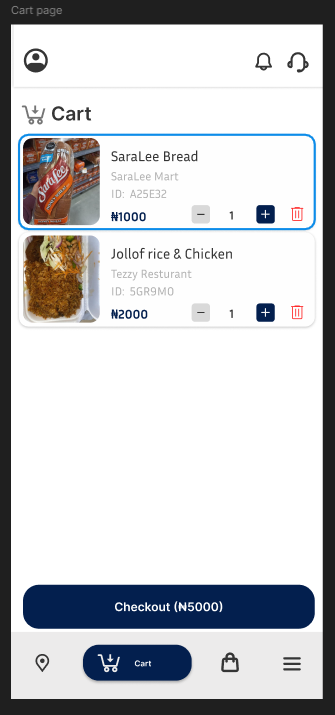
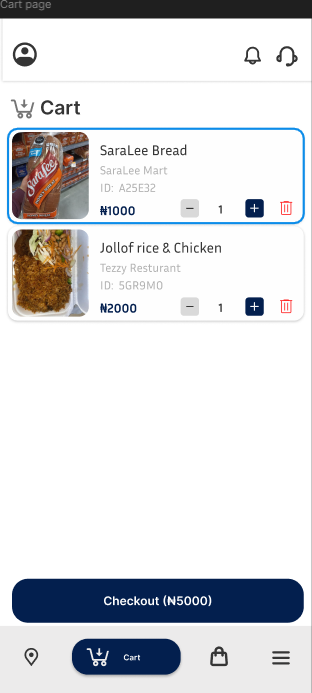
Enhance case study with staggered masonry grid and cropped UI screens

Changed region(s): [[0.0, 0.0, 1.0, 1.0], [0.5769, 0.4242, 0.6346, 0.4848], [0.6923, 0.4242, 0.7212, 0.4545]]

diff --git a/quiklyy.html b/quiklyy.html
@@ -174,13 +174,19 @@
     <section class="cs-section">
         <h2 class="cs-section-title" style="text-align: center;">High-Fidelity Figma Screens</h2>
         <p class="cs-text" style="max-width: 600px; margin: 0 auto 3rem; text-align: center;">A closer look at the core user interfaces, featuring the Merchant Dashboard, Item Details, Shopping, Cart, Recent Purchase, and Sign Up flow.</p>
-        <div style="display: grid; grid-template-columns: repeat(auto-fit, minmax(250px, 1fr)); gap: 2.5rem; justify-items: center;">
-            <img src="assets/Sign up screen.png" alt="Sign Up Screen" style="width: 100%; max-width: 350px; border-radius: 24px; border: 1px solid var(--clr-border); box-shadow: 0 15px 35px rgba(0,0,0,0.4);">
-            <img src="assets/Shopping screen.png" alt="Shopping Screen" style="width: 100%; max-width: 350px; border-radius: 24px; border: 1px solid var(--clr-border); box-shadow: 0 15px 35px rgba(0,0,0,0.4);">
-            <img src="assets/Item details.png" alt="Item Details" style="width: 100%; max-width: 350px; border-radius: 24px; border: 1px solid var(--clr-border); box-shadow: 0 15px 35px rgba(0,0,0,0.4);">
-            <img src="assets/Cart screen.png" alt="Cart Screen" style="width: 100%; max-width: 350px; border-radius: 24px; border: 1px solid var(--clr-border); box-shadow: 0 15px 35px rgba(0,0,0,0.4);">
-            <img src="assets/Merchant dashboard.png" alt="Merchant Dashboard" style="width: 100%; max-width: 350px; border-radius: 24px; border: 1px solid var(--clr-border); box-shadow: 0 15px 35px rgba(0,0,0,0.4);">
-            <img src="assets/Recent purchase .png" alt="Recent Purchase" style="width: 100%; max-width: 350px; border-radius: 24px; border: 1px solid var(--clr-border); box-shadow: 0 15px 35px rgba(0,0,0,0.4);">
+        <div class="masonry-grid">
+            <div class="masonry-col">
+                <img src="assets/Sign up screen.png" alt="Sign Up Screen">
+                <img src="assets/Shopping screen.png" alt="Shopping Screen">
+            </div>
+            <div class="masonry-col">
+                <img src="assets/Item details.png" alt="Item Details">
+                <img src="assets/Cart screen.png" alt="Cart Screen">
+            </div>
+            <div class="masonry-col">
+                <img src="assets/Merchant dashboard.png" alt="Merchant Dashboard">
+                <img src="assets/Recent purchase .png" alt="Recent Purchase">
+            </div>
         </div>
     </section>
 

diff --git a/case-study.css b/case-study.css
@@ -168,3 +168,41 @@
         gap: 1.5rem;
     }
 }
+
+/* Masonry Gallery */
+.masonry-grid {
+    display: grid;
+    grid-template-columns: 1fr;
+    gap: 2rem;
+    max-width: 1100px;
+    margin: 0 auto;
+    align-items: start;
+}
+
+.masonry-col {
+    display: flex;
+    flex-direction: column;
+    gap: 2rem;
+}
+
+.masonry-col img {
+    width: 100%;
+    border-radius: 24px;
+    box-shadow: 0 15px 40px rgba(0,0,0,0.15);
+    border: 1px solid var(--clr-border);
+    transition: transform 0.3s ease;
+}
+
+.masonry-col img:hover {
+    transform: translateY(-5px);
+}
+
+@media (min-width: 768px) {
+    .masonry-grid {
+        grid-template-columns: repeat(3, 1fr);
+        gap: 3rem;
+    }
+    .masonry-col:nth-child(2) {
+        margin-top: 5rem; /* Staggered middle column */
+    }
+}

diff --git a/crop.cs b/crop.cs
@@ -1,0 +1,62 @@
+using System;
+using System.Drawing;
+using System.Drawing.Imaging;
+using System.Runtime.InteropServices;
+using System.IO;
+
+public class ImageCropper {
+    public static void AutoCrop(string inputFile, string outputFile) {
+        Console.WriteLine("Processing: " + inputFile);
+        using (Bitmap bmp = new Bitmap(inputFile)) {
+            BitmapData bmpData = bmp.LockBits(new Rectangle(0, 0, bmp.Width, bmp.Height), ImageLockMode.ReadOnly, PixelFormat.Format32bppArgb);
+            int bytes = Math.Abs(bmpData.Stride) * bmp.Height;
+            byte[] rgbValues = new byte[bytes];
+            Marshal.Copy(bmpData.Scan0, rgbValues, 0, bytes);
+            
+            // Background color from top-left pixel
+            byte bBg = rgbValues[0];
+            byte gBg = rgbValues[1];
+            byte rBg = rgbValues[2];
+            
+            int minX = bmp.Width, minY = bmp.Height, maxX = 0, maxY = 0;
+            int stride = bmpData.Stride;
+            
+            for (int y = 0; y < bmp.Height; y++) {
+                for (int x = 0; x < bmp.Width; x++) {
+                    int offset = (y * stride) + (x * 4);
+                    byte b = rgbValues[offset];
+                    byte g = rgbValues[offset + 1];
+                    byte r = rgbValues[offset + 2];
+                    
+                    // Allow threshold for artifacts
+                    if (Math.Abs(b - bBg) > 10 || Math.Abs(g - gBg) > 10 || Math.Abs(r - rBg) > 10) {
+                        if (x < minX) minX = x;
+                        if (x > maxX) maxX = x;
+                        if (y < minY) minY = y;
+                        if (y > maxY) maxY = y;
+                    }
+                }
+            }
+            
+            bmp.UnlockBits(bmpData);
+            
+            if (minX <= maxX && minY <= maxY && (minX > 0 || minY > 0 || maxX < bmp.Width - 1 || maxY < bmp.Height - 1)) {
+                Rectangle cropRect = new Rectangle(minX, minY, maxX - minX + 1, maxY - minY + 1);
+                using (Bitmap target = new Bitmap(cropRect.Width, cropRect.Height)) {
+                    using (Graphics g = Graphics.FromImage(target)) {
+                        g.DrawImage(bmp, new Rectangle(0, 0, target.Width, target.Height), 
+                                         cropRect, 
+                                         GraphicsUnit.Pixel);
+                    }
+                    target.Save(outputFile, ImageFormat.Png);
+                    Console.WriteLine("Cropped successfully to " + cropRect.ToString());
+                }
+            } else {
+                Console.WriteLine("No crop needed or empty image.");
+                if (inputFile != outputFile) {
+                    bmp.Save(outputFile, ImageFormat.Png);
+                }
+            }
+        }
+    }
+}
